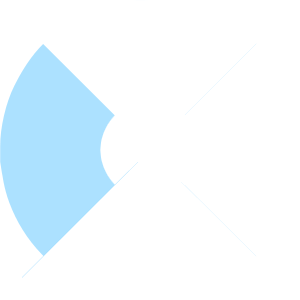
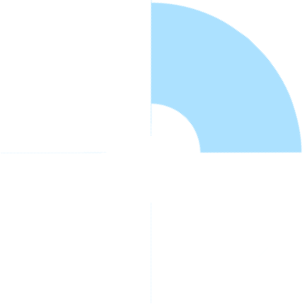
FIX - hitZone sprite follow correct rotation

diff --git a/src/plugins/population.rs b/src/plugins/population.rs
@@ -83,6 +83,9 @@ pub struct Monster;
 pub struct Player;
 
 #[derive(Component, Inspectable)]
+pub struct PlayerSwordRangeSensor;
+
+#[derive(Component)]
 pub struct PlayerSwordRange;
 
 #[derive(Clone, Default, Debug)]
@@ -232,7 +235,7 @@ fn add_creature(
                         Quat::from_rotation_z(0.),
                     )))
                     .insert(Sensor)
-                    .insert(PlayerSwordRange);
+                    .insert(PlayerSwordRangeSensor);
             }
         })
         //
@@ -257,16 +260,17 @@ fn add_creature(
         })
         .with_children(|parent| {
             if is_player {
-                parent.spawn_bundle(SpriteSheetBundle {
-                    texture_atlas: texture_atlas_handle.clone(),
-                    transform: Transform {
-                        rotation: Quat::from_rotation_z(-2.3),
-                        scale: Vec3::splat(0.65),
-                        ..default()
-                    },
-                    sprite: TextureAtlasSprite::new(0),
-                    ..Default::default()
-                });
+                parent
+                    .spawn_bundle(SpriteSheetBundle {
+                        texture_atlas: texture_atlas_handle.clone(),
+                        transform: Transform {
+                            scale: Vec3::splat(0.65),
+                            ..default()
+                        },
+                        sprite: TextureAtlasSprite::new(0),
+                        ..Default::default()
+                    })
+                    .insert(PlayerSwordRange);
             }
         })
         //

diff --git a/src/plugins/player.rs b/src/plugins/player.rs
@@ -1,7 +1,7 @@
 use super::{
     combat::HitMonsterEvent,
     location::Location,
-    population::{Creature, Monster, Player, PlayerSwordRange, Stats},
+    population::{Creature, Monster, Player, PlayerSwordRange, PlayerSwordRangeSensor, Stats},
 };
 use crate::{
     utils::{error::ErrorMessage, vec::RandVec2},
@@ -141,9 +141,17 @@ fn mouse_left_click_system(
     rapier_context: Res<RapierContext>,
     mut collider_query: Query<
         (&mut Transform, &Collider, Entity, &Parent),
-        (With<Collider>, With<PlayerSwordRange>),
+        (
+            With<Collider>,
+            With<PlayerSwordRangeSensor>,
+            Without<PlayerSwordRange>,
+        ),
     >,
-    q_parent: Query<&Transform, Without<PlayerSwordRange>>,
+    mut sprite_range_query: Query<
+        &mut Transform,
+        (With<PlayerSwordRange>, Without<PlayerSwordRangeSensor>),
+    >,
+    q_parent: Query<&Transform, (Without<PlayerSwordRangeSensor>, Without<PlayerSwordRange>)>,
 ) {
     let mut closure = || {
         for event in mouse_button_input_events.iter() {
@@ -173,6 +181,11 @@ fn mouse_left_click_system(
 
             position.rotation = Quat::from_rotation_z(mouse_angle);
             println!("New rotation {}", position.rotation);
+
+            let mut sprite_transform = sprite_range_query
+                .get_single_mut()
+                .expect("No sprite transform");
+            sprite_transform.rotation = Quat::from_rotation_z(mouse_angle);
 
             let transform = q_parent
                 .get(parent_entity.get())

diff --git a/src/plugins/combat.rs b/src/plugins/combat.rs
@@ -20,8 +20,8 @@ impl Plugin for CombatPlugin {
             .add_event::<KillMonsterEvent>()
             .add_system(monster_hit_system)
             .add_system(monster_aggro_system)
-            .add_system(monster_fight_system)
-            .add_system(test_intersections);
+            .add_system(monster_fight_system);
+        // .add_system(test_intersections);
     }
 }
 
